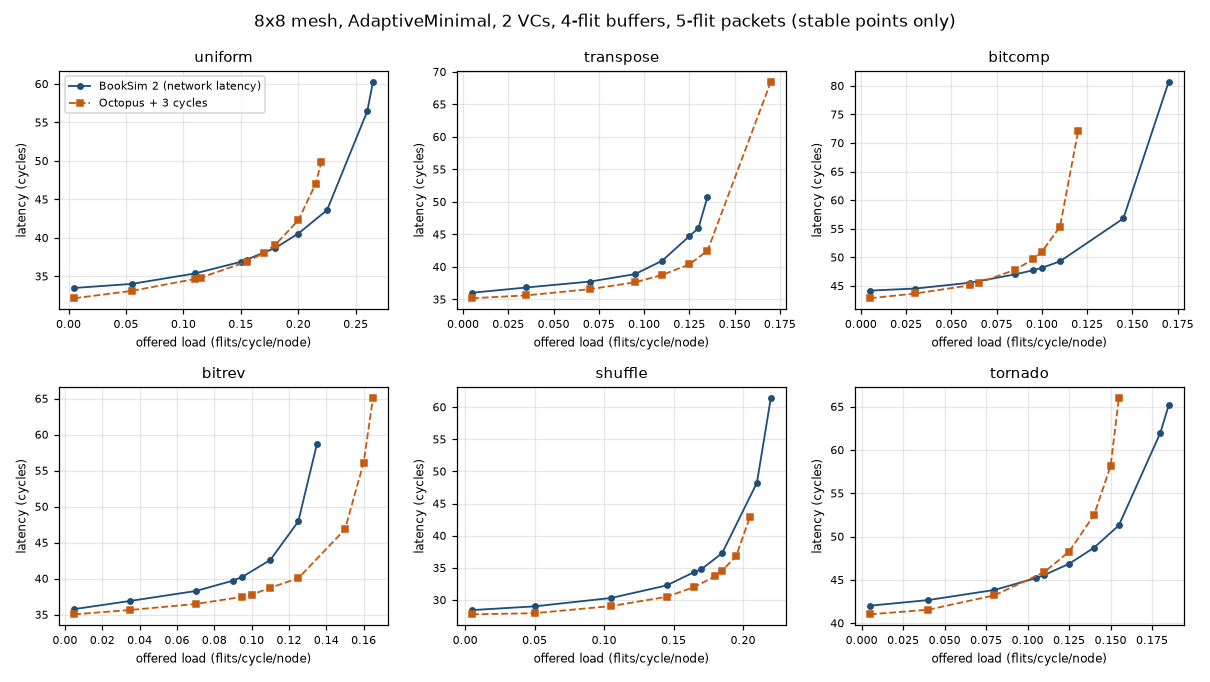
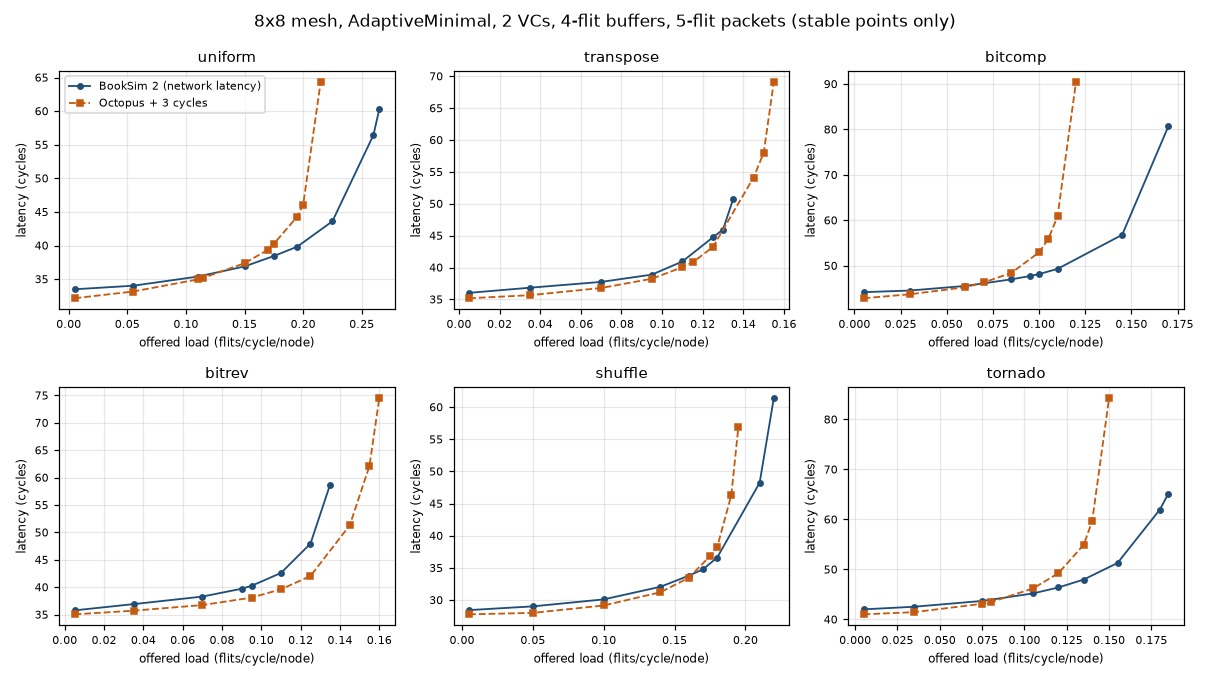
NoC: AdaptiveMinimal reallocates adaptive VCs atomically (deadlock fix)
AdaptiveMinimal deadlocked on an 8x8 mesh with 3 VCs at full load (found
by the BookSim comparison). An output VC was free again once the previous
tail had left, so a head could be granted an adaptive VC whose downstream
buffer still held another packet. Committed to it, the head could not fall
back to the escape VC, and the adaptive VCs closed a cycle.

RoutingAlgorithm::atomicVC(vc) marks VCs that VC allocation may grant only
when all credits are back. AdaptiveMinimal sets it on its adaptive VCs;
escape VCs keep non-atomic reallocation (the escape network is acyclic).

The repro completes; 66 full-load stress runs (grid/torus, 2-4 VCs, four
patterns, two pipelines, shallow VCs, 4x4x4 mesh) complete with every
packet delivered. 35-setup byte check: only the two AdaptiveMinimal setups
change. New test T5-ADAPT-ATOMIC (fails on the pre-fix binary). BookSim
reference rows, plot and validation doc s8.1 updated; spec and manual
chapter 9 describe the rule. Suite: 152 PASS, 22 XFAIL, 0 FAIL.

diff --git a/docs/manual/chapters/08b-network-on-chip.tex b/docs/manual/chapters/08b-network-on-chip.tex
@@ -521,8 +521,11 @@ graph is acyclic.
   asks for the one with the most credits on the adaptive VCs, which are every VC but the escape
   VCs, and carries the escape route as its fallback. If VA cannot grant the adaptive output, its
   second pass may grant the escape route instead, so a waiting head can always leave on the escape
-  network. A head that sees no adaptive credit on any minimal output asks for the escape route
-  directly. A packet that arrived over a link on an escape VC stays on the escape network to its
+  network. An adaptive VC goes to a new packet only when its downstream buffer is empty, with all
+  credits back. Without this atomic reallocation a head could be granted an adaptive VC still
+  holding another packet, wait there with no way back to the escape network, and close a cycle of
+  adaptive VCs. Escape VCs are free again as soon as the previous tail has left. A head that sees
+  no adaptive credit on any minimal output asks for the escape route directly. A packet that arrived over a link on an escape VC stays on the escape network to its
   destination. The escape route is dimension order on \key{escape\_vc}. On a wrapped dimension it
   uses two escape VCs with a dateline that depends only on the current router: a hop whose
   remaining leg still crosses the wrap link uses \key{escape\_vc}$+1$, any other hop

diff --git a/header/Interconnect/Network/Routing.h b/header/Interconnect/Network/Routing.h
@@ -48,6 +48,12 @@ namespace octopus { namespace net
         virtual Route nextHop(const RouteContext &) const = 0;
         virtual Ordering ordering() const = 0;
         virtual bool needsEscapeVC() const { return false; }
+        // true if output VC `vc` may be granted to a new packet only when its downstream buffer is
+        // empty (all credits back): atomic VC reallocation. Duato's condition needs it on the
+        // adaptive VCs of an escape-VC algorithm: a head granted an adaptive VC still holding
+        // another packet's flits is committed to it and can no longer fall back to the escape
+        // network, so the adaptive VCs could close a cycle (docs/NoC_Architecture_Spec.md s14.3).
+        virtual bool atomicVC(int /*vc*/) const { return false; }
         // called once when a packet is created, after its source and destination routers are set:
         // an oblivious algorithm draws its per-packet choice here (Packet::route_aux), from a hash
         // of the packet's sequence number and the routing seed, so runs stay deterministic

diff --git a/src/Interconnect/Network/Network.cpp b/src/Interconnect/Network/Network.cpp
@@ -509,6 +509,8 @@ namespace octopus { namespace net
                 {
                     OutVC &o = R.out[p].vcs[c][ov];
                     if (o.holder != 0) continue;
+                    // atomic reallocation (RoutingAlgorithm::atomicVC): the downstream buffer must be empty
+                    if (!local && o.credits < m_cfg.vc_depth && m_routing->atomicVC(ov)) continue;
                     std::vector<Candidate> cands; std::vector<VCState *> who;
                     for (int q = 0; q < t.ports(r); q++) for (int w = 0; w < m_cfg.vcs_per_class; w++)
                     {

diff --git a/src/Interconnect/Network/Routing.cpp b/src/Interconnect/Network/Routing.cpp
@@ -570,6 +570,7 @@ namespace octopus { namespace net
                 throw ConfigError("AdaptiveMinimal on " + t.kindName() + " needs two escape VCs for the dateline (escape_vc and escape_vc + 1 < vcs_per_class) and one adaptive VC, so vcs_per_class >= 3");
         }
         bool needsEscapeVC() const override { return true; }
+        bool atomicVC(int vc) const override { return !onEscape(vc); }
         Route nextHop(const RouteContext &c) const override
         {
             Route esc = escapeRoute(c.router, c.dst_router, c.packet);

diff --git a/docs/NoC_BookSim_Validation.md b/docs/NoC_BookSim_Validation.md
@@ -1,6 +1,8 @@
 # Octopus NoC against BookSim 2
 
-Status: 2026-11-22. Octopus at commit 6585fc6b (branch `network`) plus this work. BookSim 2 at
+Status: 2026-11-22. Octopus at commit 6585fc6b (branch `network`) plus this work, and the
+AdaptiveMinimal fix of §8.1 (atomic reallocation of adaptive VCs), which changed only the
+AdaptiveMinimal rows. BookSim 2 at
 commit `28f43299f1706a3160ffac721ca461d74eb6e618` (github.com/booksim/booksim2, the head of its
 master branch, June 2017). Platform: Linux on aarch64.
 
@@ -290,12 +292,12 @@ are a workload difference (§7.1). XFAIL.
 
 | pattern | zero-load Octopus+3 / BookSim | diff | saturation Octopus / BookSim | rel. diff | knee Octopus / BookSim | worst curve diff (to 0.8 knee) | criteria missed |
 |---|---|---|---|---|---|---|---|
-| uniform | 32.15 / 33.49 | -1.34 | 0.208 / 0.270 | 22.9% | 0.225 / 0.270 | -0.9 | C2, C3 |
-| transpose | 35.18 / 36.03 | -0.85 | 0.248 / 0.237 | 4.5% | 0.175 / 0.140 | -2.2 | C3 |
-| bitcomp | 42.86 / 44.19 | -1.34 | 0.116 / 0.176 | 34.2% | 0.125 / 0.175 | +2.8 | C2, C3 |
-| bitrev | 35.05 / 35.77 | -0.73 | 0.177 / 0.166 | 6.7% | 0.170 / 0.140 | -3.9 | C3 |
-| shuffle | 27.78 / 28.44 | -0.66 | 0.260 / 0.308 | 15.5% | 0.210 / 0.225 | -2.3 | C2 |
-| tornado | 41.02 / 42.02 | -1.00 | 0.133 / 0.188 | 29.5% | 0.160 / 0.190 | +1.4 | C2, C3 |
+| uniform | 32.15 / 33.49 | -1.34 | 0.207 / 0.270 | 23.3% | 0.220 / 0.270 | +1.8 | C2, C3 |
+| transpose | 35.18 / 36.03 | -0.85 | 0.212 / 0.237 | 10.6% | 0.160 / 0.140 | -1.2 | C2, C3 |
+| bitcomp | 42.86 / 44.19 | -1.34 | 0.123 / 0.176 | 29.9% | 0.125 / 0.175 | +4.8 | C2, C3 |
+| bitrev | 35.05 / 35.77 | -0.73 | 0.177 / 0.166 | 7.0% | 0.165 / 0.140 | -3.0 | C3 |
+| shuffle | 27.78 / 28.44 | -0.66 | 0.257 / 0.308 | 16.6% | 0.200 / 0.225 | -1.0 | C2, C3 |
+| tornado | 41.02 / 42.02 | -1.00 | 0.143 / 0.188 | 24.2% | 0.155 / 0.190 | +2.8 | C2, C3 |
 
 S8-88-ADAPTIVE: 0 of 6 by C1 to C4. Zero load and the curve below the knee agree. Saturation does
 not (§7.3). XFAIL.
@@ -367,8 +369,8 @@ when a flow saturates gradually. The saturation throughputs of the case agree wi
 ### 7.3 Adaptive routing selects differently
 
 Zero-load latency and the curve below the knee agree (C1 and C4 hold on all six patterns). The
-saturation throughput does not: Octopus is 23 to 34 percent lower on uniform, bitcomp and tornado
-and 5 to 7 percent higher on transpose and bitrev. The selection functions differ:
+saturation throughput does not: Octopus is 11 to 30 percent lower on every pattern but bitrev, and
+7 percent higher on bitrev. The selection functions differ:
 
 - BookSim gives the VC allocator every free output VC on every minimal port (adaptive VCs at
   priority 1, the escape VC at priority 0) and lets allocation choose.
@@ -379,7 +381,7 @@ and 5 to 7 percent higher on transpose and bitrev. The selection functions diffe
   dimension-order escape network for the rest of its path.
 
 Under load many packets therefore drop onto the single escape VC, and Octopus's adaptive routing
-carries less than its own XY on 2 VCs (0.208 against 0.298 on uniform). BookSim's `min_adapt` also
+carries less than its own XY on 2 VCs (0.207 against 0.298 on uniform). BookSim's `min_adapt` also
 loses to `dor` on uniform (0.270 against 0.296), but by less. This is a design choice of the spec,
 not a fault, and a definitional difference for the comparison. It may be worth revisiting (§8.2).
 
@@ -433,14 +435,24 @@ cannot fall back. With non-atomic VC reallocation the adaptive VCs can then form
 Context: the same run with 2 or 4 VCs completes, as do 3 VCs with Octopus's default pipeline
 (`router_latency 2`, `credit_latency` = link, `output_first`) over 100 000 cycles, 3 VCs with only
 two of the three overrides, and 3 VCs under tornado. BookSim's `min_adapt` with 3 VCs at full load
-completes (0.340 flits/cycle/node). Not fixed here.
+completes (0.340 flits/cycle/node).
+
+**Fixed** after this study. Adaptive VCs are now reallocated atomically: VC allocation grants an
+adaptive (non-escape) output VC to a new packet only when its downstream buffer is empty, all
+credits back (`RoutingAlgorithm::atomicVC`, spec §14.3). A head granted an adaptive VC then always
+has room to advance, and a head still waiting at the front of a buffer can always take the escape
+VC, which is Duato's condition. Escape VCs keep non-atomic reallocation, since the escape network
+is acyclic. The repro above now runs to the end (71 310 packets in 20 000 cycles, all delivered).
+A stress sweep of 66 full-load runs also completes with every packet delivered: 8x8 grid with 2, 3
+or 4 VCs and either escape VC, 8x8 torus with 3 or 4 VCs, uniform, transpose, tornado and bitcomp,
+the default and the BookSim pipeline, VC depth 1 and 2, and a 4x4x4 mesh. The fix moved the
+AdaptiveMinimal rows of §6.2 by a few percent and left every other routing unchanged.
 
 ### 8.2 AdaptiveMinimal selection by credit count (performance, not correctness)
 
 §7.3. Choosing the primary port by the credits of VCs that may be held, and then falling to the
 escape network for good, makes `AdaptiveMinimal` carry less than `XY` under uniform traffic
-(8x8, 2 VCs, BookSim pipeline: 0.208 against 0.298 flits/cycle/node; 0.221 against 0.308 in a
-10 000-cycle run). Repro: `compare.py --routings AdaptiveMinimal,XY --patterns uniform`. A selection
+(8x8, 2 VCs, BookSim pipeline: 0.207 against 0.298 flits/cycle/node). Repro: `compare.py --routings AdaptiveMinimal,XY --patterns uniform`. A selection
 that only counts free VCs, or a VA that may try the other minimal port before the escape, would
 likely close most of the gap.
 
@@ -460,5 +472,6 @@ partner. The comparison silences the diagonal generators to match BookSim (§3).
   10 to 11 percent where BookSim routes self packets through the network. Stock BookSim's
   `valiant_mesh` deadlocks under full load. A one-line fix is applied for the comparison.
 - The two minimal adaptive algorithms agree at low load and differ at saturation, because their
-  selection functions differ. Octopus's `AdaptiveMinimal` also deadlocked once in this study (§8.1).
+  selection functions differ. Octopus's `AdaptiveMinimal` deadlocked once in this study, through
+non-atomic reallocation of adaptive VCs. That is fixed (§8.1).
 - The 4x4 S8-BOOKSIM test now runs natively on Linux and passes (3 percent).

diff --git a/docs/NoC_Architecture_Spec.md b/docs/NoC_Architecture_Spec.md
@@ -82,6 +82,13 @@ statements use **shall**; everything else is explanation.
   only those pairs (§10.2, §14.3).
 - `half_duplex` on a topology with one-way links is refused (§4.5).
 
+**Revision 2026-11-22 (atomic adaptive VCs).** `AdaptiveMinimal` deadlocked on an 8x8 mesh with
+3 VCs at full load (found in the BookSim comparison, `docs/NoC_BookSim_Validation.md` §8.1). A head
+was granted an adaptive VC whose downstream buffer still held another packet, so it could not fall
+back to the escape VC, and the adaptive VCs closed a cycle. VC allocation now reallocates adaptive
+VCs atomically: `RoutingAlgorithm::atomicVC(vc)` marks them, and VA grants such a VC only when all
+its credits are back (§11.2, §14.3). Only `AdaptiveMinimal` results change.
+
 Contents
 
 1. Scope and goals
@@ -684,6 +691,12 @@ all routers. Pass 1 offers each head still without an output VC its fallback rou
 `alt_mask`, §10.1) under the same rules. A head granted there takes the fallback as its route.
 This is Duato's condition: a waiting head can always use the escape network.
 
+An output VC for which the routing's `atomicVC(vc)` is true (the adaptive VCs of
+`AdaptiveMinimal`) is granted only when its downstream buffer is empty: all `vc_depth` credits back.
+Other VCs are free again as soon as the previous tail has left (§8.3). Without atomic reallocation
+a head could be granted an adaptive VC still holding another packet's flits and then wait on it,
+committed, with no way back to the escape network; the adaptive VCs could then close a cycle.
+
 ### 11.3 Switch allocation
 
 Per output port, per tick: candidates are the input VCs holding an output VC on this port whose
@@ -835,7 +848,9 @@ the watchdog reports.
   - `AdaptiveMinimal` checks its escape network (`escapeDependencyAcyclic`): a packet may enter it
     at any router and then follows the escape route to its destination, so the graph is built
     from every (entry router, destination) pair. The single-escape-VC version on a torus fails
-    this check. The dateline version passes.
+    this check. The dateline version passes. The check is sufficient only with atomic
+    reallocation of the adaptive VCs (§11.2), which `AdaptiveMinimal` requests through
+    `atomicVC`.
   - `XY`, the turn models and the oblivious algorithms return true by construction. On networks
     of up to 64 routers construction cross-checks the claim with the full candidate check, and a
     cycle found there is reported as an internal error. Larger networks skip the cross-check: its
